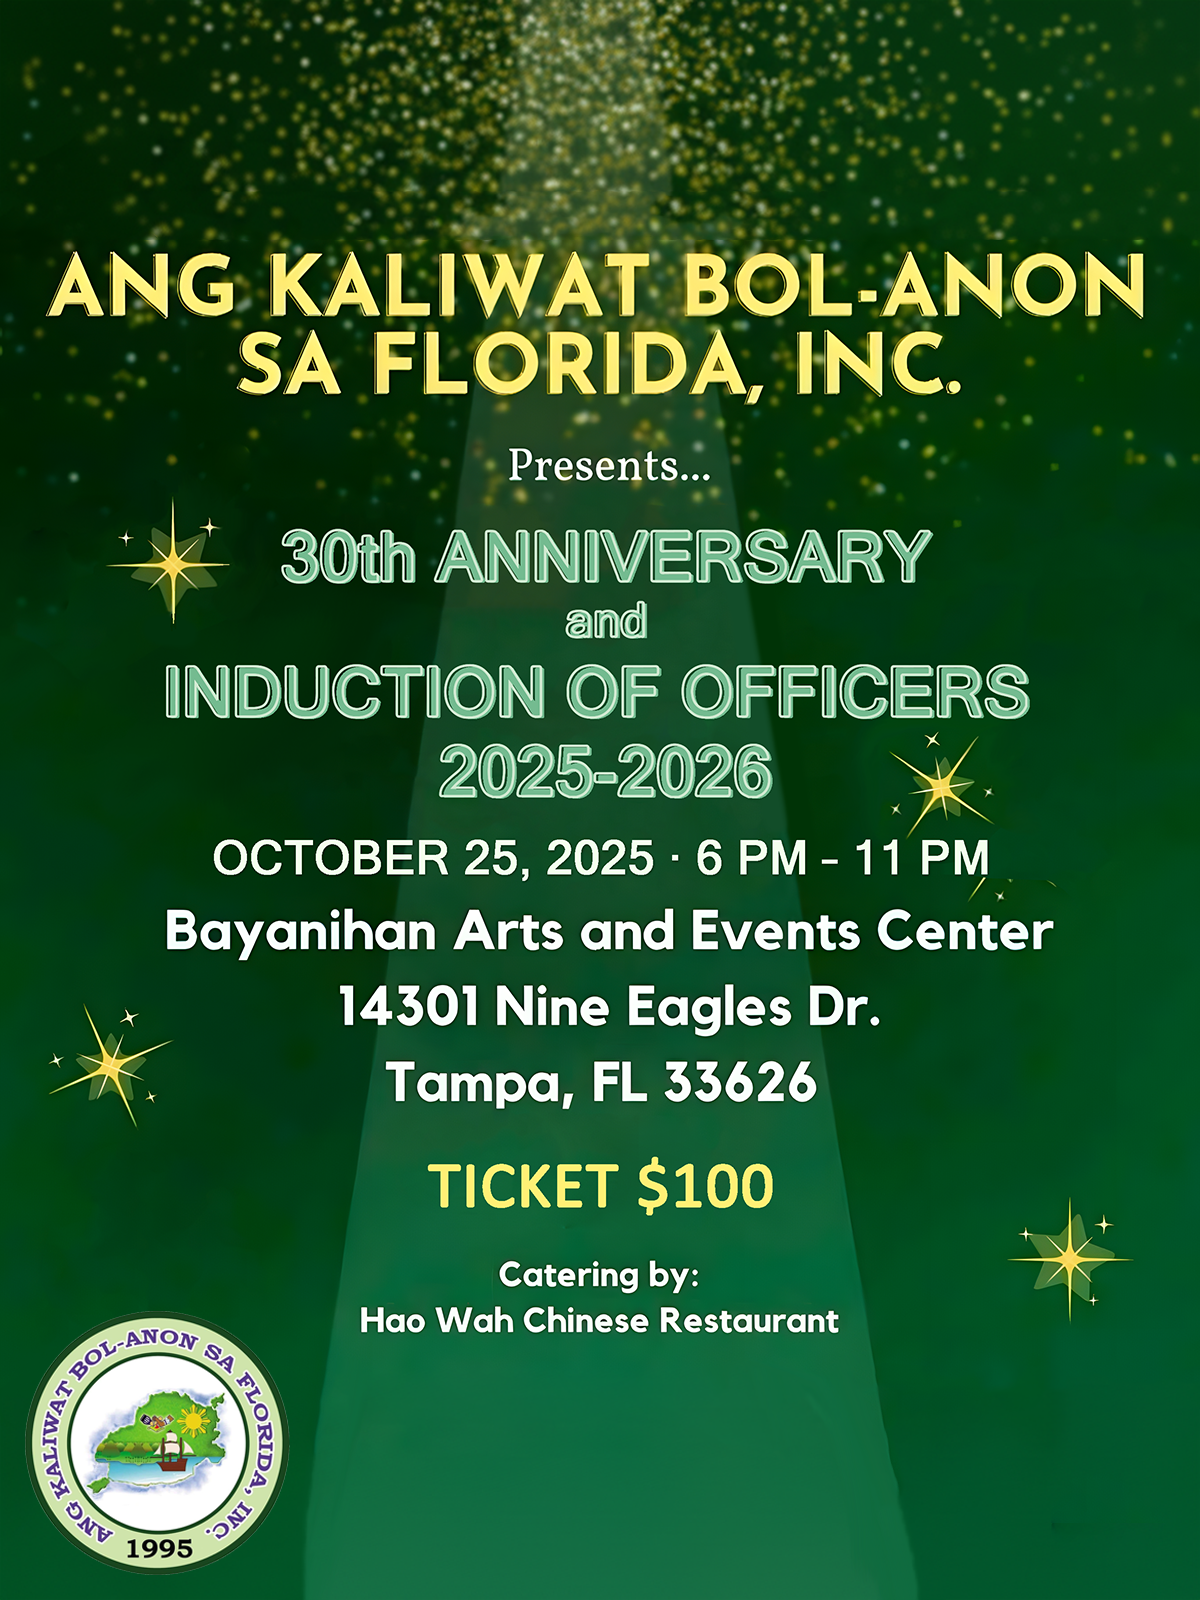
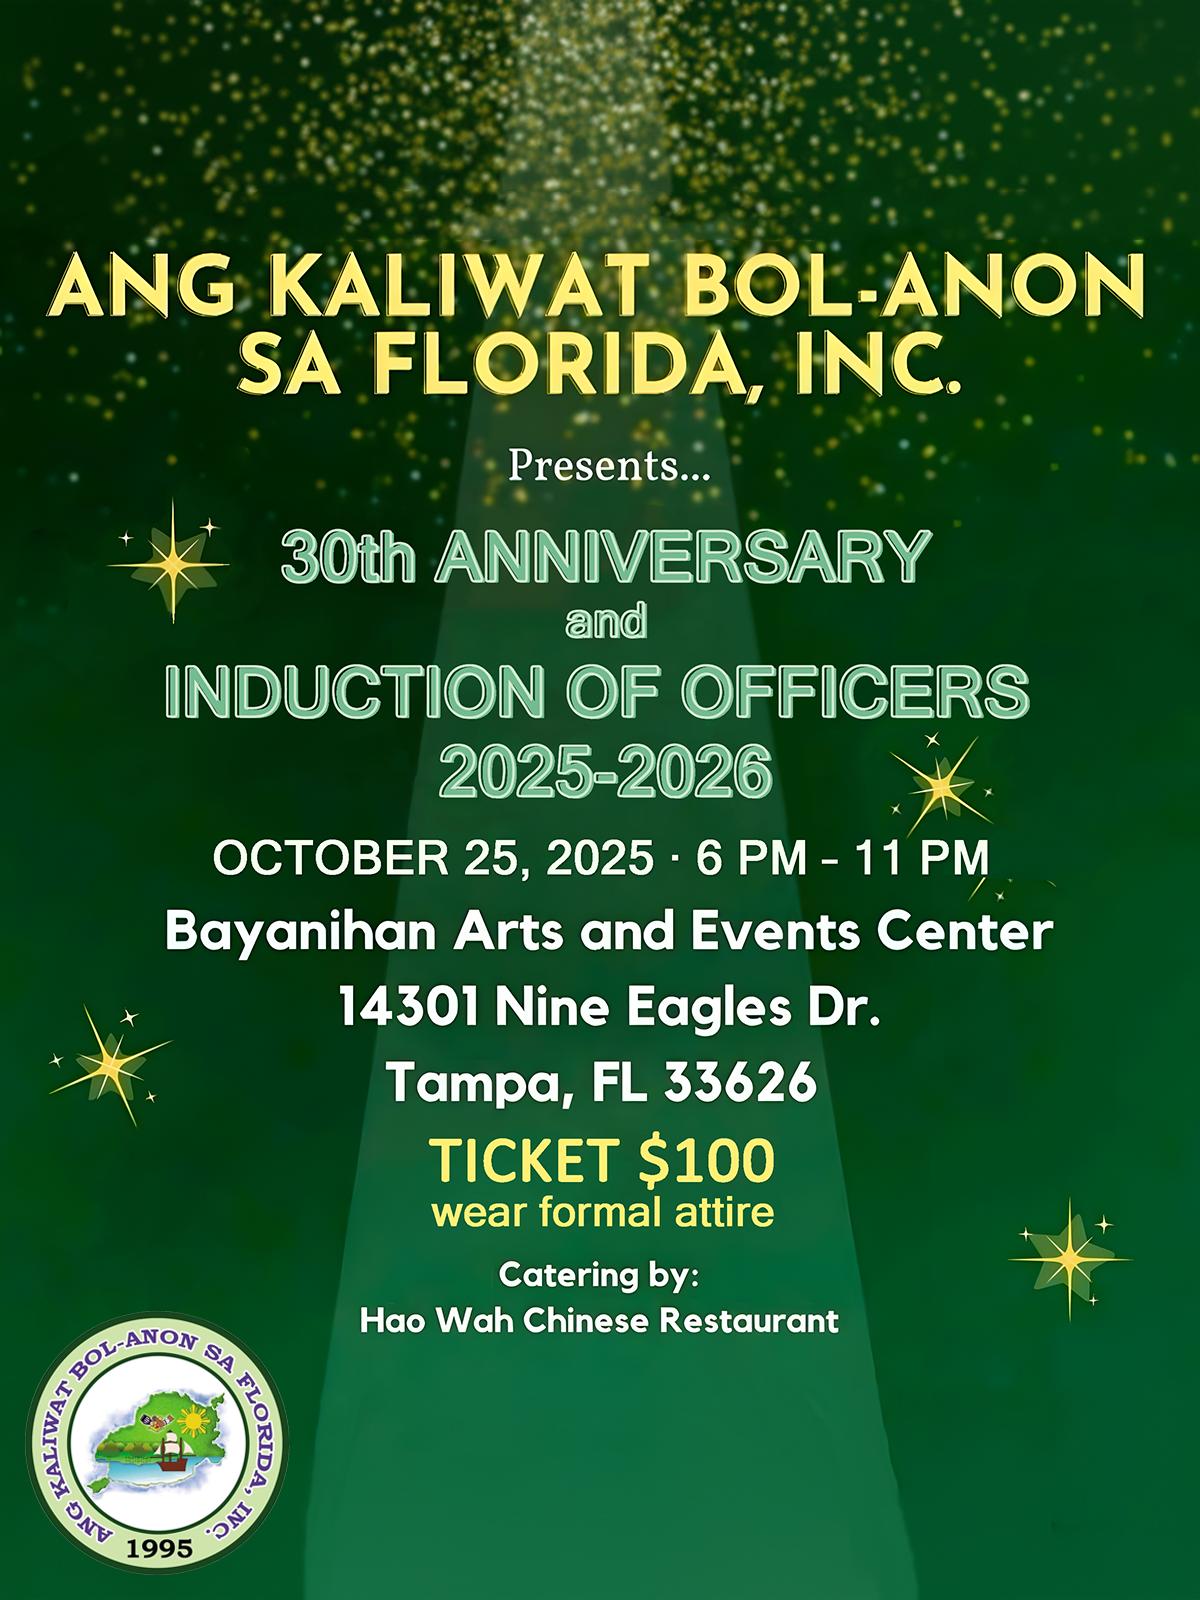
done???? 9.14.2025

Changed region(s): [[0.3392, 0.6875, 0.6475, 0.7812]]

diff --git a/index.html b/index.html
@@ -31,7 +31,7 @@
                         <a href="./imgs/invitation.png"
                             data-pswp-width="1200" 
                             data-pswp-height="1600"
-                            style="position: absolute; top: 0; right: 0;"><img src="./imgs/max.png" style="height: 50px; width: 50px;  filter: brightness(0) invert(1) ;">
+                            style="position: absolute; top: 0; right: 0;"><img src="./imgs/max.png" style="height: 50px; width: 50px; filter: brightness(0) invert(1) ;">
                         </a>
                         <img src="./imgs/invitation.png" style="width: 100%; height: 100%;">
                         <!--
@@ -142,6 +142,26 @@
                             style="position: absolute; top: 0; right: 0;"><img src="./imgs/max.png" style="height: 50px; width: 50px;">
                         </a>
                         <img src="./imgs/11.png" style="width: 100%; height: 100%;">
+                    </div>
+                </div>
+                <div class="page">
+                    <div class="page-content">
+                        <a href="./imgs/12.png"
+                            data-pswp-width="1200" 
+                            data-pswp-height="1600"
+                            style="position: absolute; top: 0; right: 0;"><img src="./imgs/max.png" style="height: 50px; width: 50px;">
+                        </a>
+                        <img src="./imgs/12.png" style="width: 100%; height: 100%;">
+                    </div>
+                </div>
+                <div class="page">
+                    <div class="page-content">
+                        <a href="./imgs/application.png"
+                            data-pswp-width="1200" 
+                            data-pswp-height="1600"
+                            style="position: absolute; top: 0; right: 0;"><img src="./imgs/max.png" style="height: 50px; width: 50px;">
+                        </a>
+                        <img src="./imgs/application.png" style="width: 100%; height: 100%;">
                     </div>
                 </div>
             </div>

diff --git a/setup.js b/setup.js
@@ -105,7 +105,7 @@ document.addEventListener('DOMContentLoaded', function() {
             document.getElementById("lab").style.display = "block";
             document.getElementById("rab").style.display = "block";
         }
-        if (document.querySelector(".page-current").innerText >= 11) {
+        if (document.querySelector(".page-current").innerText >= 13) {
             document.getElementById("rab").style.display = "none";
         }
     });
